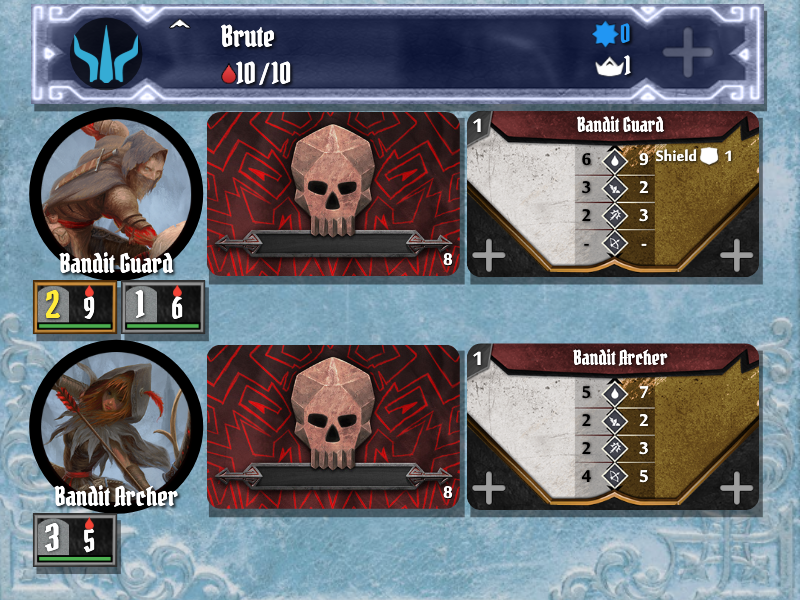
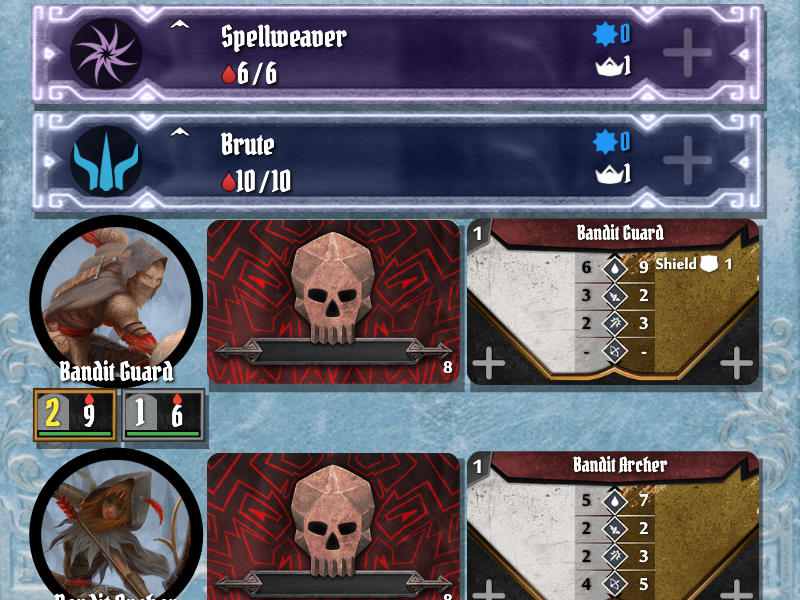
test: §2 quick-start goldens + Spellweaver in populated state
New goldens for the Quick Start chapter:
- s2-1-fresh-app: full app shell at first launch (TopBar, BottomBar,
  empty MainList, drawer hidden) — what you see before adding anything.
- s2-3-scenario-active: full app with Black Barrow set up — Brute,
  Spellweaver, Bandit Guard (1 normal + 1 elite), Bandit Archer (1
  normal). Demonstrates the manual's anchor scenario fully assembled.
- s2-7-elements-after-cast: same scene with fire infused, illustrating
  the post-Spellweaver-fire-ability state for §2.7's element coverage.

Helpers extracted:
- _setupBlackBarrow({bool withSpellweaver}) — single source of truth for
  the manual's reference roster. s3-3 and s3-5 now call this too, so
  the populated-state goldens stay aligned.
- _pumpFullApp(tester) — pumps TopBar + BottomBar + drawer + MainList
  in MainScaffold-equivalent layout. Used for full-screen §2 captures.

Manual prose for §2 (reorder §2.4↔§2.5, Spellweaver narrative, embedded
images) is pending — to be done in a subsequent commit.

diff --git a/frosthaven_assistant/test/widget/manual_goldens_test.dart b/frosthaven_assistant/test/widget/manual_goldens_test.dart
@@ -135,6 +135,49 @@ Future<void> _setUpGameWithFullData() async {
   await gs.load();
 }
 
+/// Sets up the Black Barrow roster used by §2 Quick Start and §3 anatomy
+/// goldens. Brute is the manual's anchor character; Spellweaver is added
+/// when `withSpellweaver` so §2.7 can demonstrate element management
+/// (Spellweaver casts a fire ability, fire becomes infused).
+void _setupBlackBarrow({bool withSpellweaver = false}) {
+  AddCharacterCommand('Brute', 'Gloomhaven', null, 1).execute();
+  if (withSpellweaver) {
+    AddCharacterCommand('Spellweaver', 'Gloomhaven', null, 1).execute();
+  }
+  AddMonsterCommand('Bandit Guard', 1, false).execute();
+  AddStandeeCommand(1, null, 'Bandit Guard', MonsterType.normal, false)
+      .execute();
+  AddStandeeCommand(2, null, 'Bandit Guard', MonsterType.elite, false)
+      .execute();
+  AddMonsterCommand('Bandit Archer', 1, false).execute();
+  AddStandeeCommand(3, null, 'Bandit Archer', MonsterType.normal, false)
+      .execute();
+}
+
+/// Pumps the full app shell (TopBar + BottomBar + MainMenu drawer + MainList)
+/// in a layout that mirrors the live app. Used for §2 full-screen goldens
+/// where the manual needs to show the actual app, not isolated widgets.
+Future<void> _pumpFullApp(WidgetTester tester) async {
+  final originalOnError = FlutterError.onError;
+  FlutterError.onError = ignoreOverflowErrors;
+  await tester.pumpWidget(
+    MaterialApp(
+      theme: theme,
+      home: const Scaffold(
+        appBar: PreferredSize(
+            preferredSize: Size.fromHeight(56), child: TopBar()),
+        bottomNavigationBar: BottomBar(),
+        drawer: MainMenu(),
+        body: MainList(),
+      ),
+    ),
+  );
+  // Drain NetworkUI's 200ms Future.delayed before capturing.
+  await tester.pump(const Duration(milliseconds: 250));
+  await _precacheAllImages(tester);
+  FlutterError.onError = originalOnError;
+}
+
 void main() {
   setUpAll(() async {
     await _setUpGameWithFullData();
@@ -146,6 +189,42 @@ void main() {
   });
 
   group('Manual screenshots', () {
+    // ── §2.1 Quick Start — fresh app at launch ───────────────────────────
+
+    testWidgets('s2-1 fresh app', (tester) async {
+      await _pumpFullApp(tester);
+      await expectLater(
+        find.byType(MaterialApp),
+        matchesGoldenFile('$_goldenDir/s2-1-fresh-app.png'),
+      );
+    });
+
+    // ── §2.3 Quick Start — scenario active, party assembled ──────────────
+
+    testWidgets('s2-3 scenario active', (tester) async {
+      _setupBlackBarrow(withSpellweaver: true);
+      await _pumpFullApp(tester);
+      await expectLater(
+        find.byType(MaterialApp),
+        matchesGoldenFile('$_goldenDir/s2-3-scenario-active.png'),
+      );
+    });
+
+    // ── §2.7 Quick Start — fire infused after Spellweaver casts ──────────
+
+    testWidgets('s2-7 elements after cast', (tester) async {
+      final gs = getIt<GameState>();
+      _setupBlackBarrow(withSpellweaver: true);
+      await _pumpFullApp(tester);
+      await tester.tap(_elementButton(Elements.fire));
+      await tester.pumpAndSettle();
+      await expectLater(
+        find.byType(MaterialApp),
+        matchesGoldenFile('$_goldenDir/s2-7-elements-after-cast.png'),
+      );
+      gs.undo();
+    });
+
     // ── §3.2 Top bar — elements ──────────────────────────────────────────
 
     testWidgets('s3-2 top bar all inert', (tester) async {
@@ -206,19 +285,7 @@ void main() {
     });
 
     testWidgets('s3-3 main list populated', (tester) async {
-      // Black Barrow roster — the manual's anchor scenario (Gloomhaven
-      // Scenario 1). One Brute character at level 1 + one Bandit Guard
-      // (normal+elite standees) + one Bandit Archer. Available because
-      // setUpAll loaded production data (assets/) rather than testData.
-      AddCharacterCommand('Brute', 'Gloomhaven', null, 1).execute();
-      AddMonsterCommand('Bandit Guard', 1, false).execute();
-      AddStandeeCommand(1, null, 'Bandit Guard', MonsterType.normal, false)
-          .execute();
-      AddStandeeCommand(2, null, 'Bandit Guard', MonsterType.elite, false)
-          .execute();
-      AddMonsterCommand('Bandit Archer', 1, false).execute();
-      AddStandeeCommand(3, null, 'Bandit Archer', MonsterType.normal, false)
-          .execute();
+      _setupBlackBarrow(withSpellweaver: true);
       await _pumpInScaffold(tester, const MainList());
       await expectLater(
         find.byType(MainList),
@@ -248,15 +315,7 @@ void main() {
     testWidgets('s3-5 main menu drawer', (tester) async {
       // Populate body with the Black Barrow roster so the scrim has
       // something behind it to dim, matching what users see in the live app.
-      AddCharacterCommand('Brute', 'Gloomhaven', null, 1).execute();
-      AddMonsterCommand('Bandit Guard', 1, false).execute();
-      AddStandeeCommand(1, null, 'Bandit Guard', MonsterType.normal, false)
-          .execute();
-      AddStandeeCommand(2, null, 'Bandit Guard', MonsterType.elite, false)
-          .execute();
-      AddMonsterCommand('Bandit Archer', 1, false).execute();
-      AddStandeeCommand(3, null, 'Bandit Archer', MonsterType.normal, false)
-          .execute();
+      _setupBlackBarrow(withSpellweaver: true);
 
       await tester.pumpWidget(
         MaterialApp(